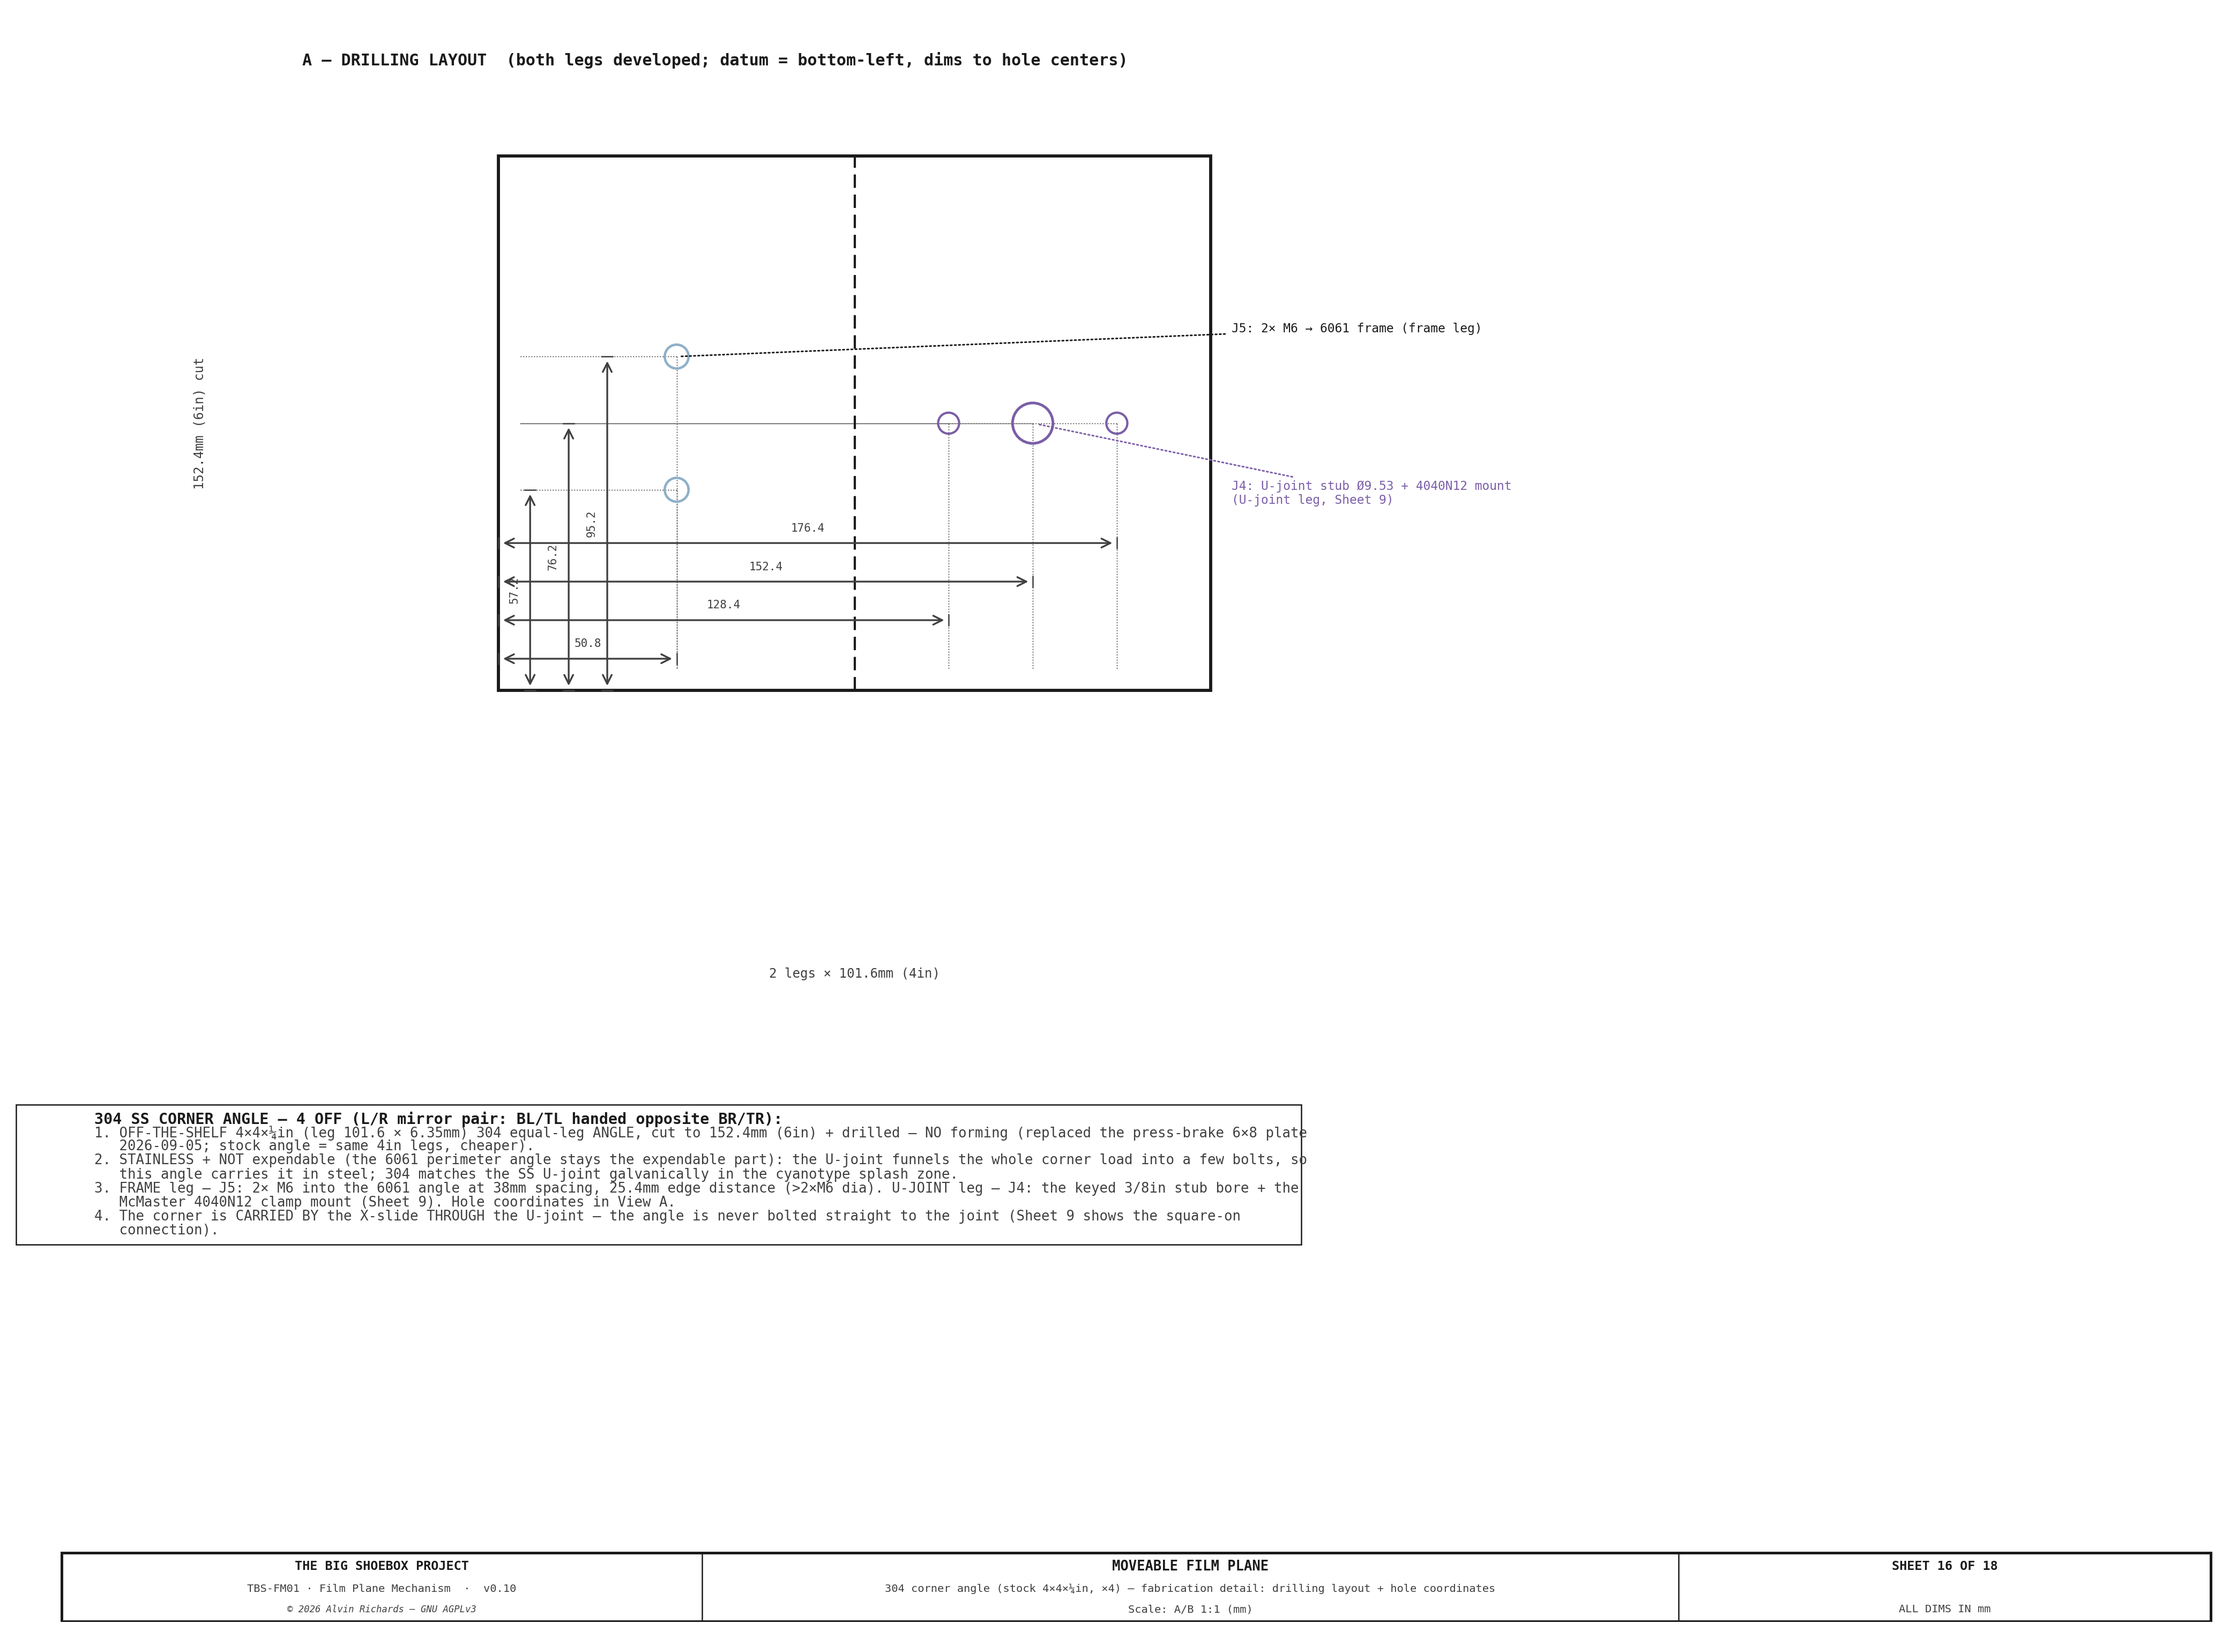
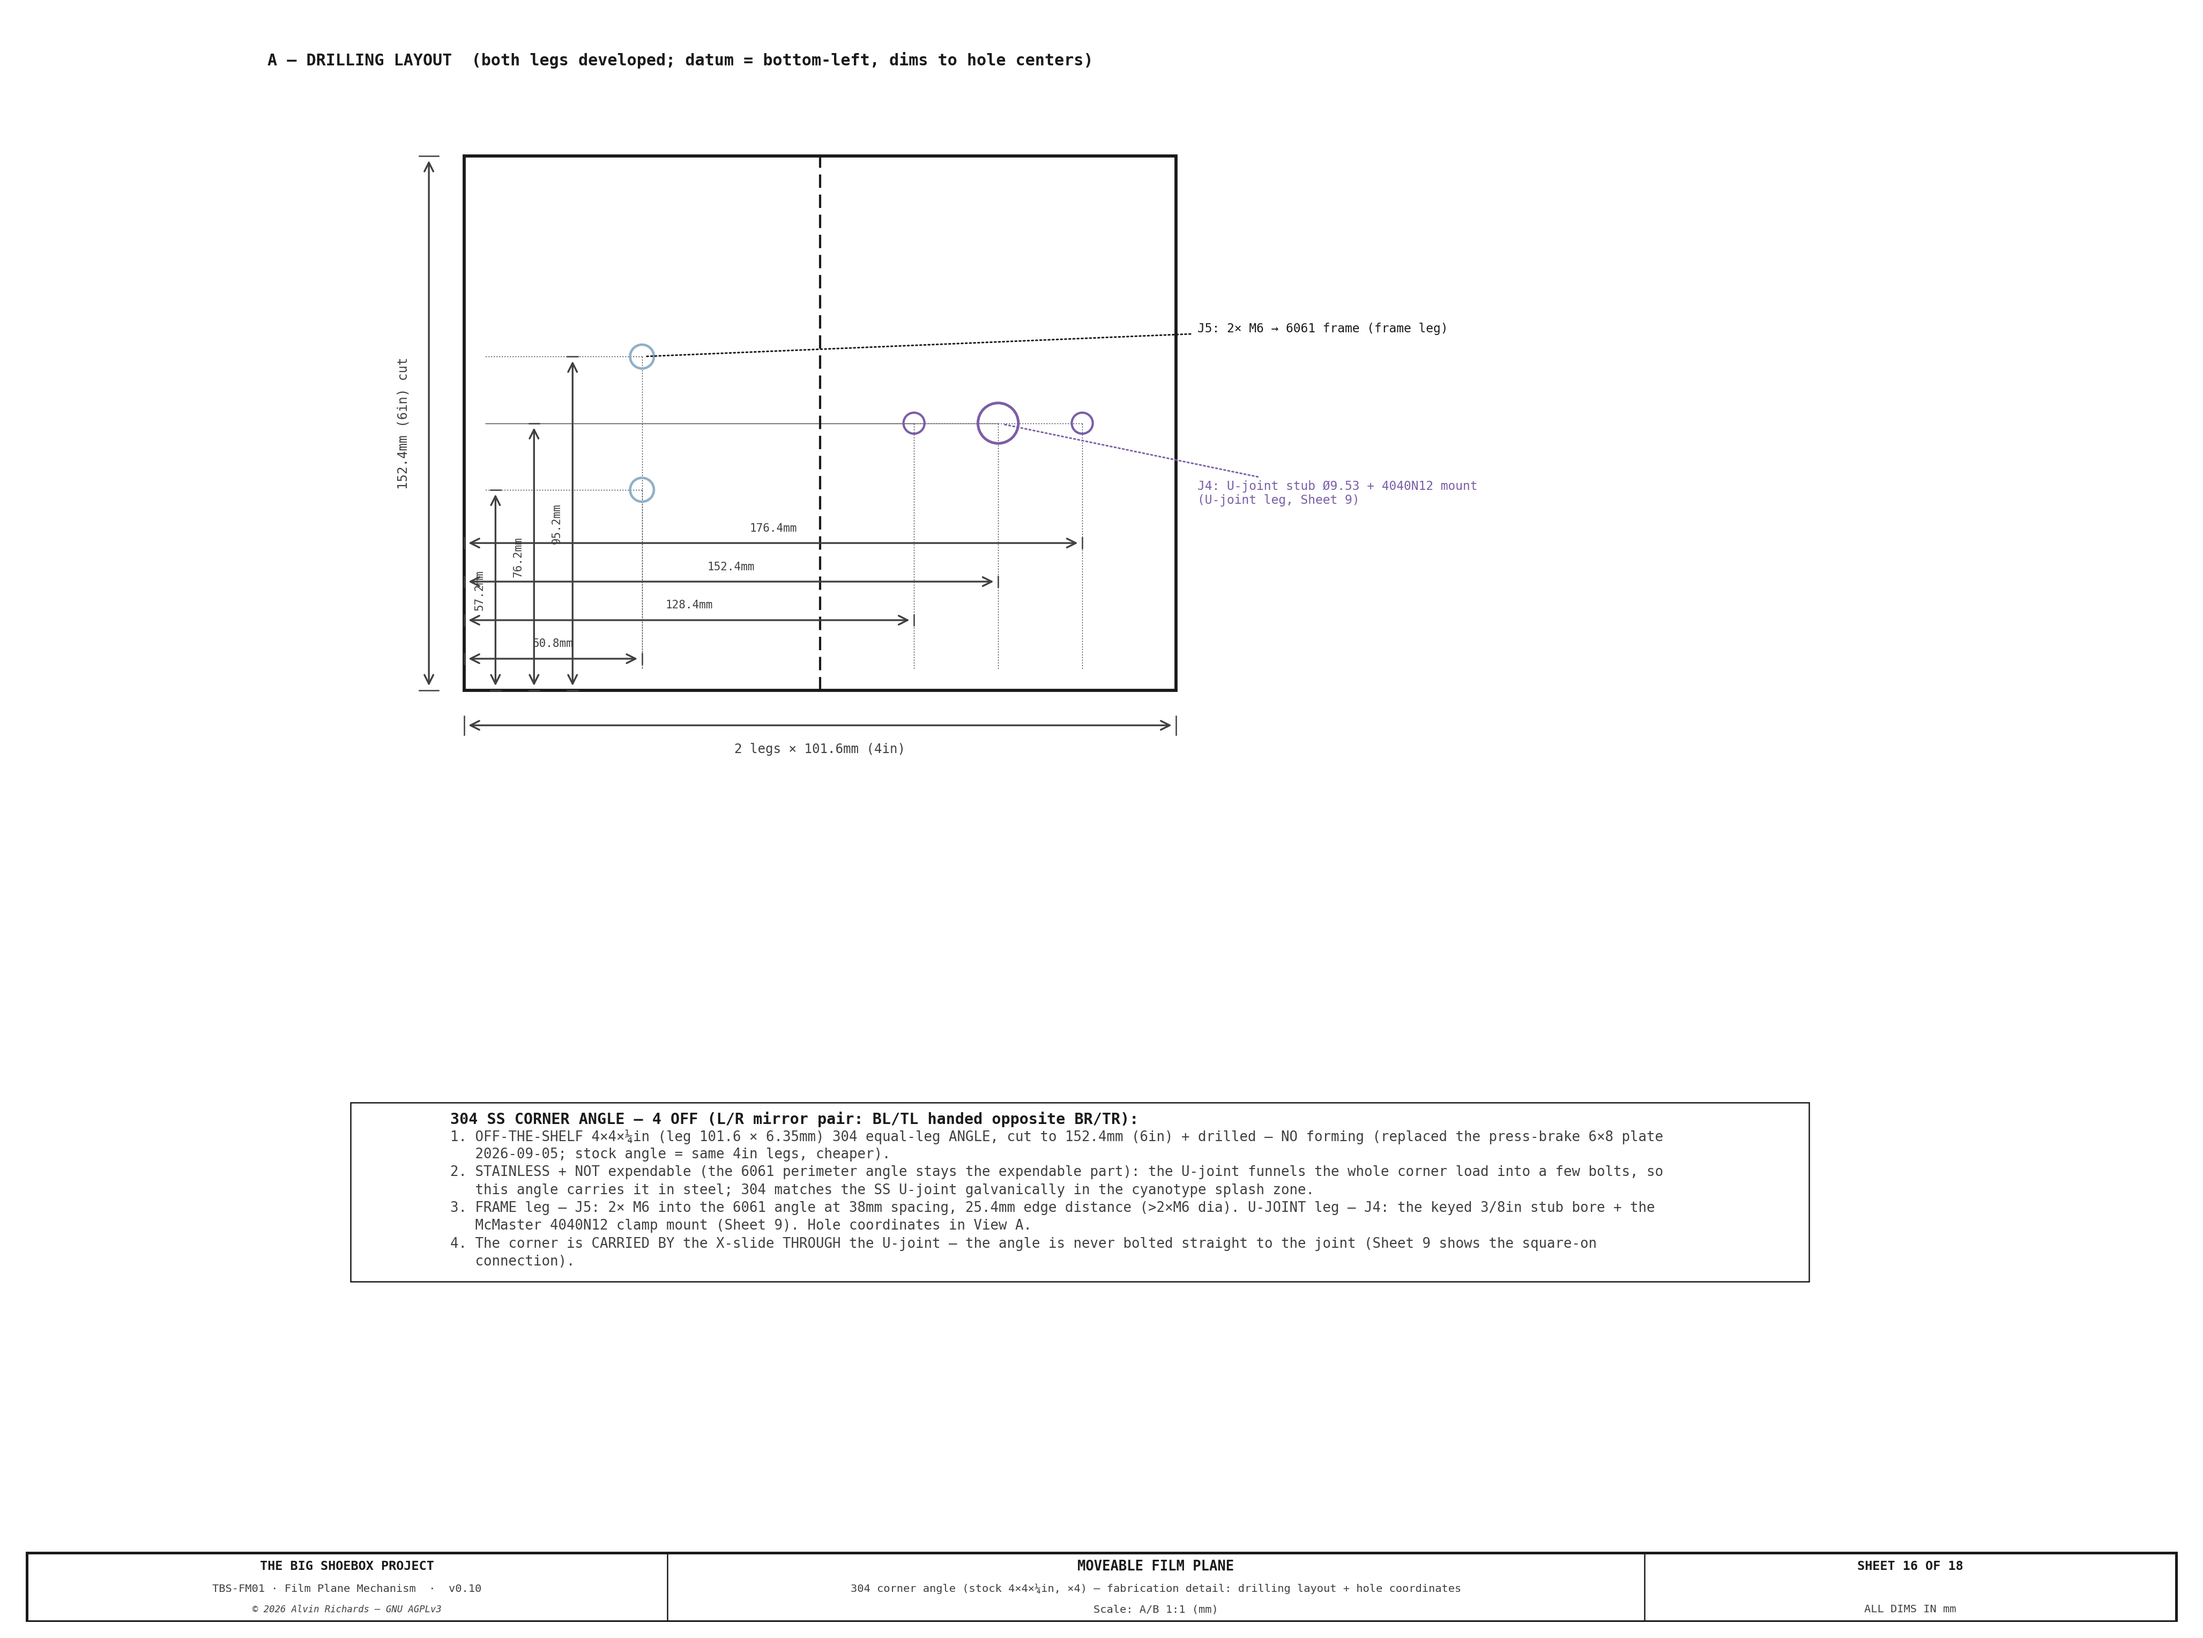
Tidy labels

diff --git a/src/generators/generate_film_plane_mechanism.py b/src/generators/generate_film_plane_mechanism.py
@@ -2458,14 +2458,14 @@ def sheet16():
     for dx in (-24, 24):
         draw_circle(axA, ujx + dx, L / 2, 3.0, lw=1.0, color=C_SWING, zorder=6)                # 4040N12 mount bolts
     # overall
-    draw_dim_h(axA, 0, 2 * leg, -74, f"2 legs × {leg:.1f}mm (4in)", fs=5.8, font=FONT, above=False, offset=9)
-    draw_dim_v(axA, -78, 0, L, f"{L:.1f}mm (6in) cut", fs=5.8, font=FONT, offset=9)
+    draw_dim_h(axA, 0, 2 * leg, -10, f"2 legs × {leg:.1f}mm (4in)", fs=5.8, font=FONT, above=False, offset=9)
+    draw_dim_v(axA, -10, 0, L, f"{L:.1f}mm (6in) cut", fs=5.8, font=FONT, offset=9)
     # EVERY hole located by an X (dim_h) + Y (dim_v), placed INSIDE the panel near the holes (white plate → readable)
     j5lo, j5hi = j5[0][1], j5[1][1]
     for i, hx in enumerate((j5x, ujx - 24, ujx, ujx + 24)):          # X of each hole, stacked inside near the bottom edge
-        draw_dim_h(axA, 0, hx, 9 + i * 11, f"{hx:.1f}", fs=5.0, font=FONT, offset=5)
+        draw_dim_h(axA, 0, hx, 9 + i * 11, f"{hx:.1f}mm", fs=5.0, font=FONT, offset=5)
     for i, hy in enumerate((j5lo, L / 2, j5hi)):                     # Y of each hole row, stacked inside near the left edge
-        draw_dim_v(axA, 9 + i * 11, 0, hy, f"{hy:.1f}", fs=5.0, font=FONT, offset=5)
+        draw_dim_v(axA, 9 + i * 11, 0, hy, f"{hy:.1f}mm", fs=5.0, font=FONT, offset=5)
     # extension guides — tie EACH hole to its inside dims (↓ to the X band, ← to the Y band) so the hole↔dim link is unambiguous
     for hx, hy in [(j5x, j5lo), (j5x, j5hi), (ujx - 24, L / 2), (ujx, L / 2), (ujx + 24, L / 2)]:
         axA.plot([hx, hx], [hy, 6], color=DIM, lw=0.3, ls=(0, (2, 2)), zorder=4)   # above the white plate (zorder 3)
@@ -2487,7 +2487,7 @@ def sheet16():
         f"U-JOINT leg — J4: the keyed 3/8in stub bore + the McMaster 4040N12 clamp mount (Sheet 9). Hole coordinates in View A.",
         "4. The corner is CARRIED BY the X-slide THROUGH the U-joint — the angle is never bolted straight to the joint "
         "(Sheet 9 shows the square-on connection).",
-    ], 2, 98, 3.6, fs=6.2, title_fs=6.8, color=DIM, width=52, wrap=150, font=FONT)
+    ], 20, 98, 4.6, fs=6.2, title_fs=6.8, color=DIM, width=58, wrap=150, font=FONT)
 
     ax_tb = fig.add_axes([0.06, 0.012, 0.90, 0.052]); ax_tb.set_xlim(0, 1); ax_tb.set_ylim(0, 1); ax_tb.axis("off")
     title_block(ax_tb, "SHEET 16 OF 18", drawing_title="MOVEABLE FILM PLANE",
